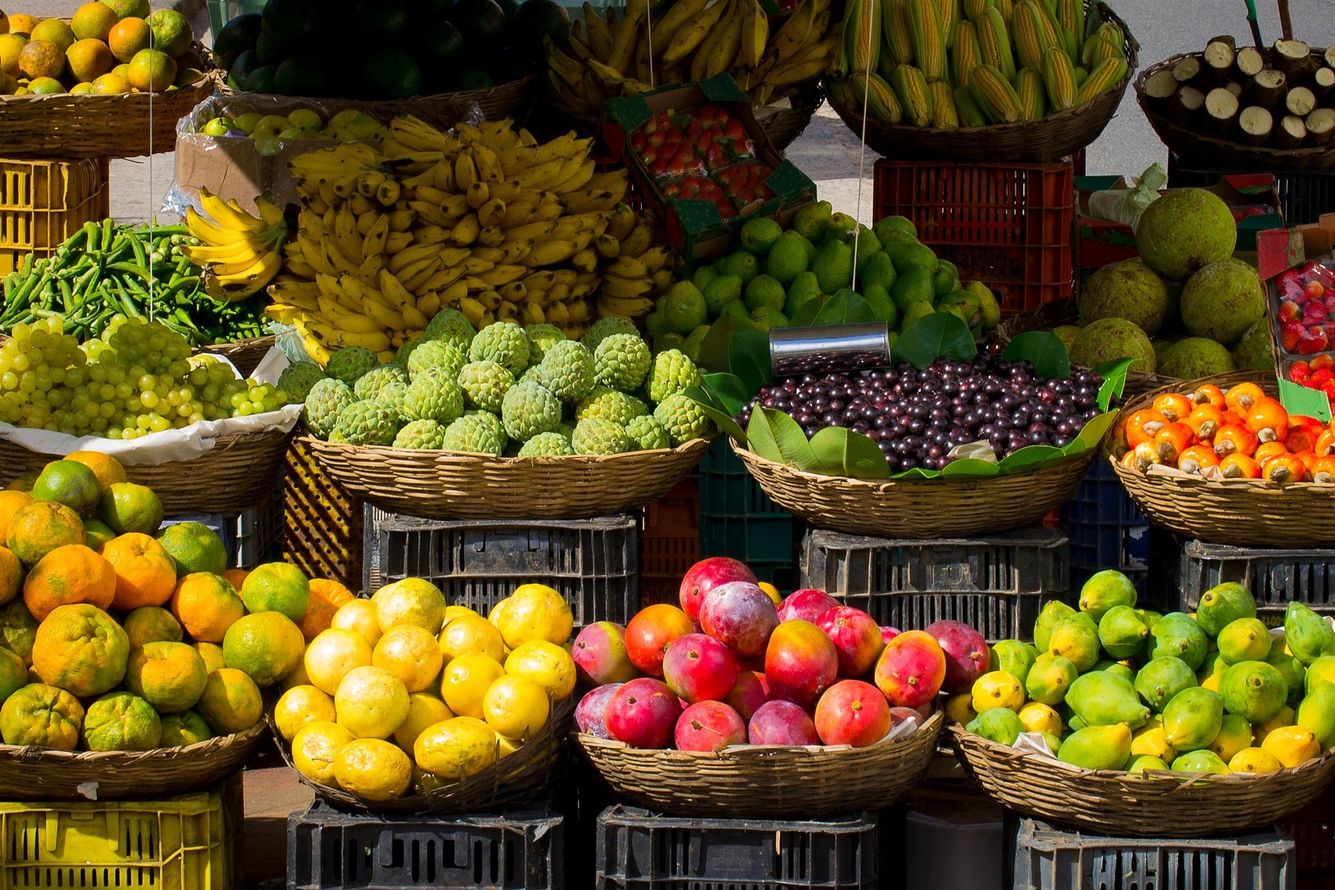
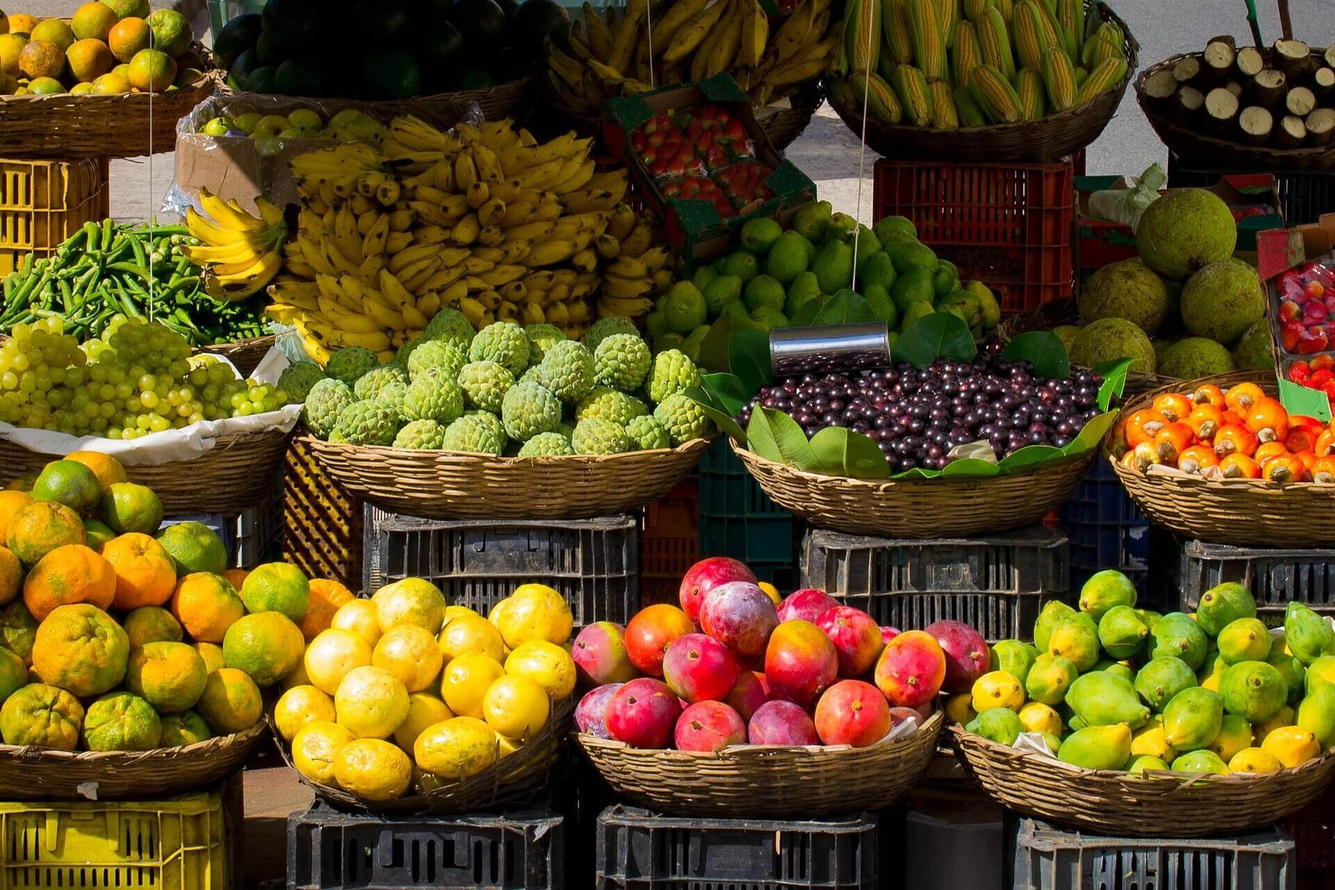
Added nav tabs in Account, changed images size

Changed region(s): [[0.0, 0.3125, 0.125, 0.3438]]

diff --git a/src/views/Account/Account.vue b/src/views/Account/Account.vue
@@ -1,49 +1,67 @@
 <template>
   <b-container class="mt-56">
-    <h1 class="text-center">Konto</h1>
-
-    <div class="details">
-      <div><strong>Imię i nazwisko / login: </strong>{{ userDetails.name }}</div>
-      <div><strong>Email: </strong>{{ userDetails.email }}</div>
-      <div><strong>Rola: </strong>{{ userDetails.role }}</div>
-      <div><strong>Plan: </strong>{{ userPlan.type }}</div>
-      <div v-if="userPlan.subscriptions.length">
-        <strong>Subskrypcja wygasa: </strong
-        >{{
-          new Date(
-            userPlan.subscriptions[userPlan.subscriptions.length - 1].endDate
-          ).toLocaleString()
-        }}
+    <b-nav tabs fill class="my-4">
+      <b-nav-item :to="{ name: 'account' }" :active="$route.name === 'account'">Konto</b-nav-item>
+      <b-nav-item :to="{ name: 'subscriptions' }" :active="$route.name === 'subscriptions'"
+        >Subskrypcje</b-nav-item
+      >
+      <b-nav-item :to="{ name: 'calculations' }" :active="$route.name === 'calculations'"
+        >Kalkulacje
+      </b-nav-item>
+      <b-nav-item :to="{ name: 'shop' }" :active="$route.name === 'shop'">Sklep</b-nav-item>
+    </b-nav>
+    <template v-if="$route.name === 'account'">
+      <h1 class="text-center">Konto</h1>
+      <div class="details">
+        <div><strong>Imię i nazwisko / login: </strong>{{ userDetails.name }}</div>
+        <div><strong>Email: </strong>{{ userDetails.email }}</div>
+        <div><strong>Rola: </strong>{{ userDetails.role }}</div>
+        <div><strong>Plan: </strong>{{ userPlan.type }}</div>
+        <div v-if="userPlan.subscriptions.length">
+          <strong>Subskrypcja wygasa: </strong
+          >{{
+            new Date(
+              userPlan.subscriptions[userPlan.subscriptions.length - 1].endDate
+            ).toLocaleString()
+          }}
+        </div>
       </div>
-    </div>
-    <b-alert
-      class="mt-4"
-      show
-      v-if="userDetails.name && !userDetails.emailConfirmed"
-      variant="warning"
-    >
-      Nie potwierdziłeś adresu email. Tylko użytkownicy z potwierdzonym adresem email mogą korzystać
-      z pełnych możliwości serwisu. <br />
-      <strong>Nie otrzymałeś/aś emaila?</strong>
-      <b-link @click="sendConfirmationEmail">
-        Wyślij ponownie
-      </b-link>
-      wiadomość.
-    </b-alert>
-    <b-alert class="mt-4" show v-if="successMessage" variant="success">
-      {{ successMessage }}
-    </b-alert>
-    <b-alert class="mt-4" show v-if="errorMessage" variant="danger">
-      {{ errorMessage }}
-    </b-alert>
+      <b-alert
+        class="mt-4"
+        show
+        v-if="userDetails.name && !userDetails.emailConfirmed"
+        variant="warning"
+      >
+        Nie potwierdziłeś adresu email. Tylko użytkownicy z potwierdzonym adresem email mogą
+        korzystać z pełnych możliwości serwisu. <br />
+        <strong>Nie otrzymałeś/aś emaila?</strong>
+        <b-link @click="sendConfirmationEmail">
+          Wyślij ponownie
+        </b-link>
+        wiadomość.
+      </b-alert>
+      <b-alert class="mt-4" show v-if="successMessage" variant="success">
+        {{ successMessage }}
+      </b-alert>
+      <b-alert class="mt-4" show v-if="errorMessage" variant="danger">
+        {{ errorMessage }}
+      </b-alert>
+    </template>
+    <Subscriptions v-else-if="$route.name === 'subscriptions'"/>
+    <Calculations v-else-if="$route.name === 'calculations'"/>
+    <Shop v-else-if="$route.name === 'shop'"/>
   </b-container>
 </template>
 
 <script>
 import { mapActions, mapGetters } from "vuex";
+import Subscriptions from "./Subscriptions";
+import Calculations from "./Calculations";
+import Shop from "./Shop";
 
 export default {
   name: "Account",
+  components: {Shop, Calculations, Subscriptions},
   data: () => ({
     successMessage: "",
     errorMessage: ""

diff --git a/src/router.js b/src/router.js
@@ -63,25 +63,29 @@ const routes = [
     path: "/konto",
     name: "account",
     component: Account,
-    beforeEnter: auth
-  },
-  {
-    path: "/konto/kalkulacje",
-    name: "calculations",
-    component: Calculations,
-    beforeEnter: auth
-  },
-  {
-    path: "/konto/sklep",
-    name: "shop",
-    component: Shop,
-    beforeEnter: auth
-  },
-  {
-    path: "/konto/subskrypcje",
-    name: "subscriptions",
-    component: Subscriptions,
-    beforeEnter: auth
+    beforeEnter: auth,
+    children: [
+      {
+        path: "kalkulacje",
+        name: "calculations",
+        component: Calculations,
+        beforeEnter: auth,
+
+      },
+      {
+        path: "sklep",
+        name: "shop",
+        component: Shop,
+        beforeEnter: auth,
+
+      },
+      {
+        path: "subskrypcje",
+        name: "subscriptions",
+        component: Subscriptions,
+        beforeEnter: auth,
+      }
+    ]
   },
   { path: "/token-error", name: "token-error", component: TokenError },
   { path: "/token-success", name: "token-success", component: TokenSuccess }

diff --git a/src/components/Navbar.vue b/src/components/Navbar.vue
@@ -12,6 +12,9 @@
           <router-link tag="b-dropdown-item" :to="{ name: 'account' }">{{
             loggedUserEmail ? loggedUserEmail : "konto"
           }}</router-link>
+          <router-link tag="b-dropdown-item" :to="{ name: 'subscriptions' }"
+          >subskrypcje</router-link
+          >
           <router-link tag="b-dropdown-item" :to="{ name: 'calculations' }"
             >kalkulacje</router-link
           >

diff --git a/src/views/Account/Calculations.vue b/src/views/Account/Calculations.vue
@@ -1,5 +1,5 @@
 <template>
-  <b-container class="mt-56">
+  <div>
     <h1 class="text-center">Kalkulacje</h1>
     <div role="tablist" v-if="allCalculations">
       <b-card no-body class="mb-1" v-for="calculation of allCalculations" :key="calculation._id">
@@ -29,7 +29,7 @@
       </b-card>
     </div>
     <Spinner v-if="calculationsAreLoaded" />
-  </b-container>
+  </div>
 </template>
 
 <script>

diff --git a/src/views/Account/Shop.vue b/src/views/Account/Shop.vue
@@ -1,5 +1,5 @@
 <template>
-  <b-container class="mt-56">
+  <div>
     <h1 class="text-center">Sklep</h1>
     <div class="text-center mt-5">
       <table class="table table-hover">
@@ -63,7 +63,7 @@
         >Płatność zakończona pomyślnie</b-alert
       >
     </div>
-  </b-container>
+  </div>
 </template>
 
 <script>

diff --git a/src/views/Account/Subscriptions.vue b/src/views/Account/Subscriptions.vue
@@ -1,5 +1,5 @@
 <template>
-  <b-container class="mt-56">
+  <div>
     <h1 class="text-center">Subskrypcje</h1>
     <div role="tablist" v-if="allSubscriptions">
       <b-card
@@ -85,7 +85,7 @@
       </b-card>
     </div>
     <Spinner v-if="subscriptionsAreLoaded" />
-  </b-container>
+  </div>
 </template>
 
 <script>
